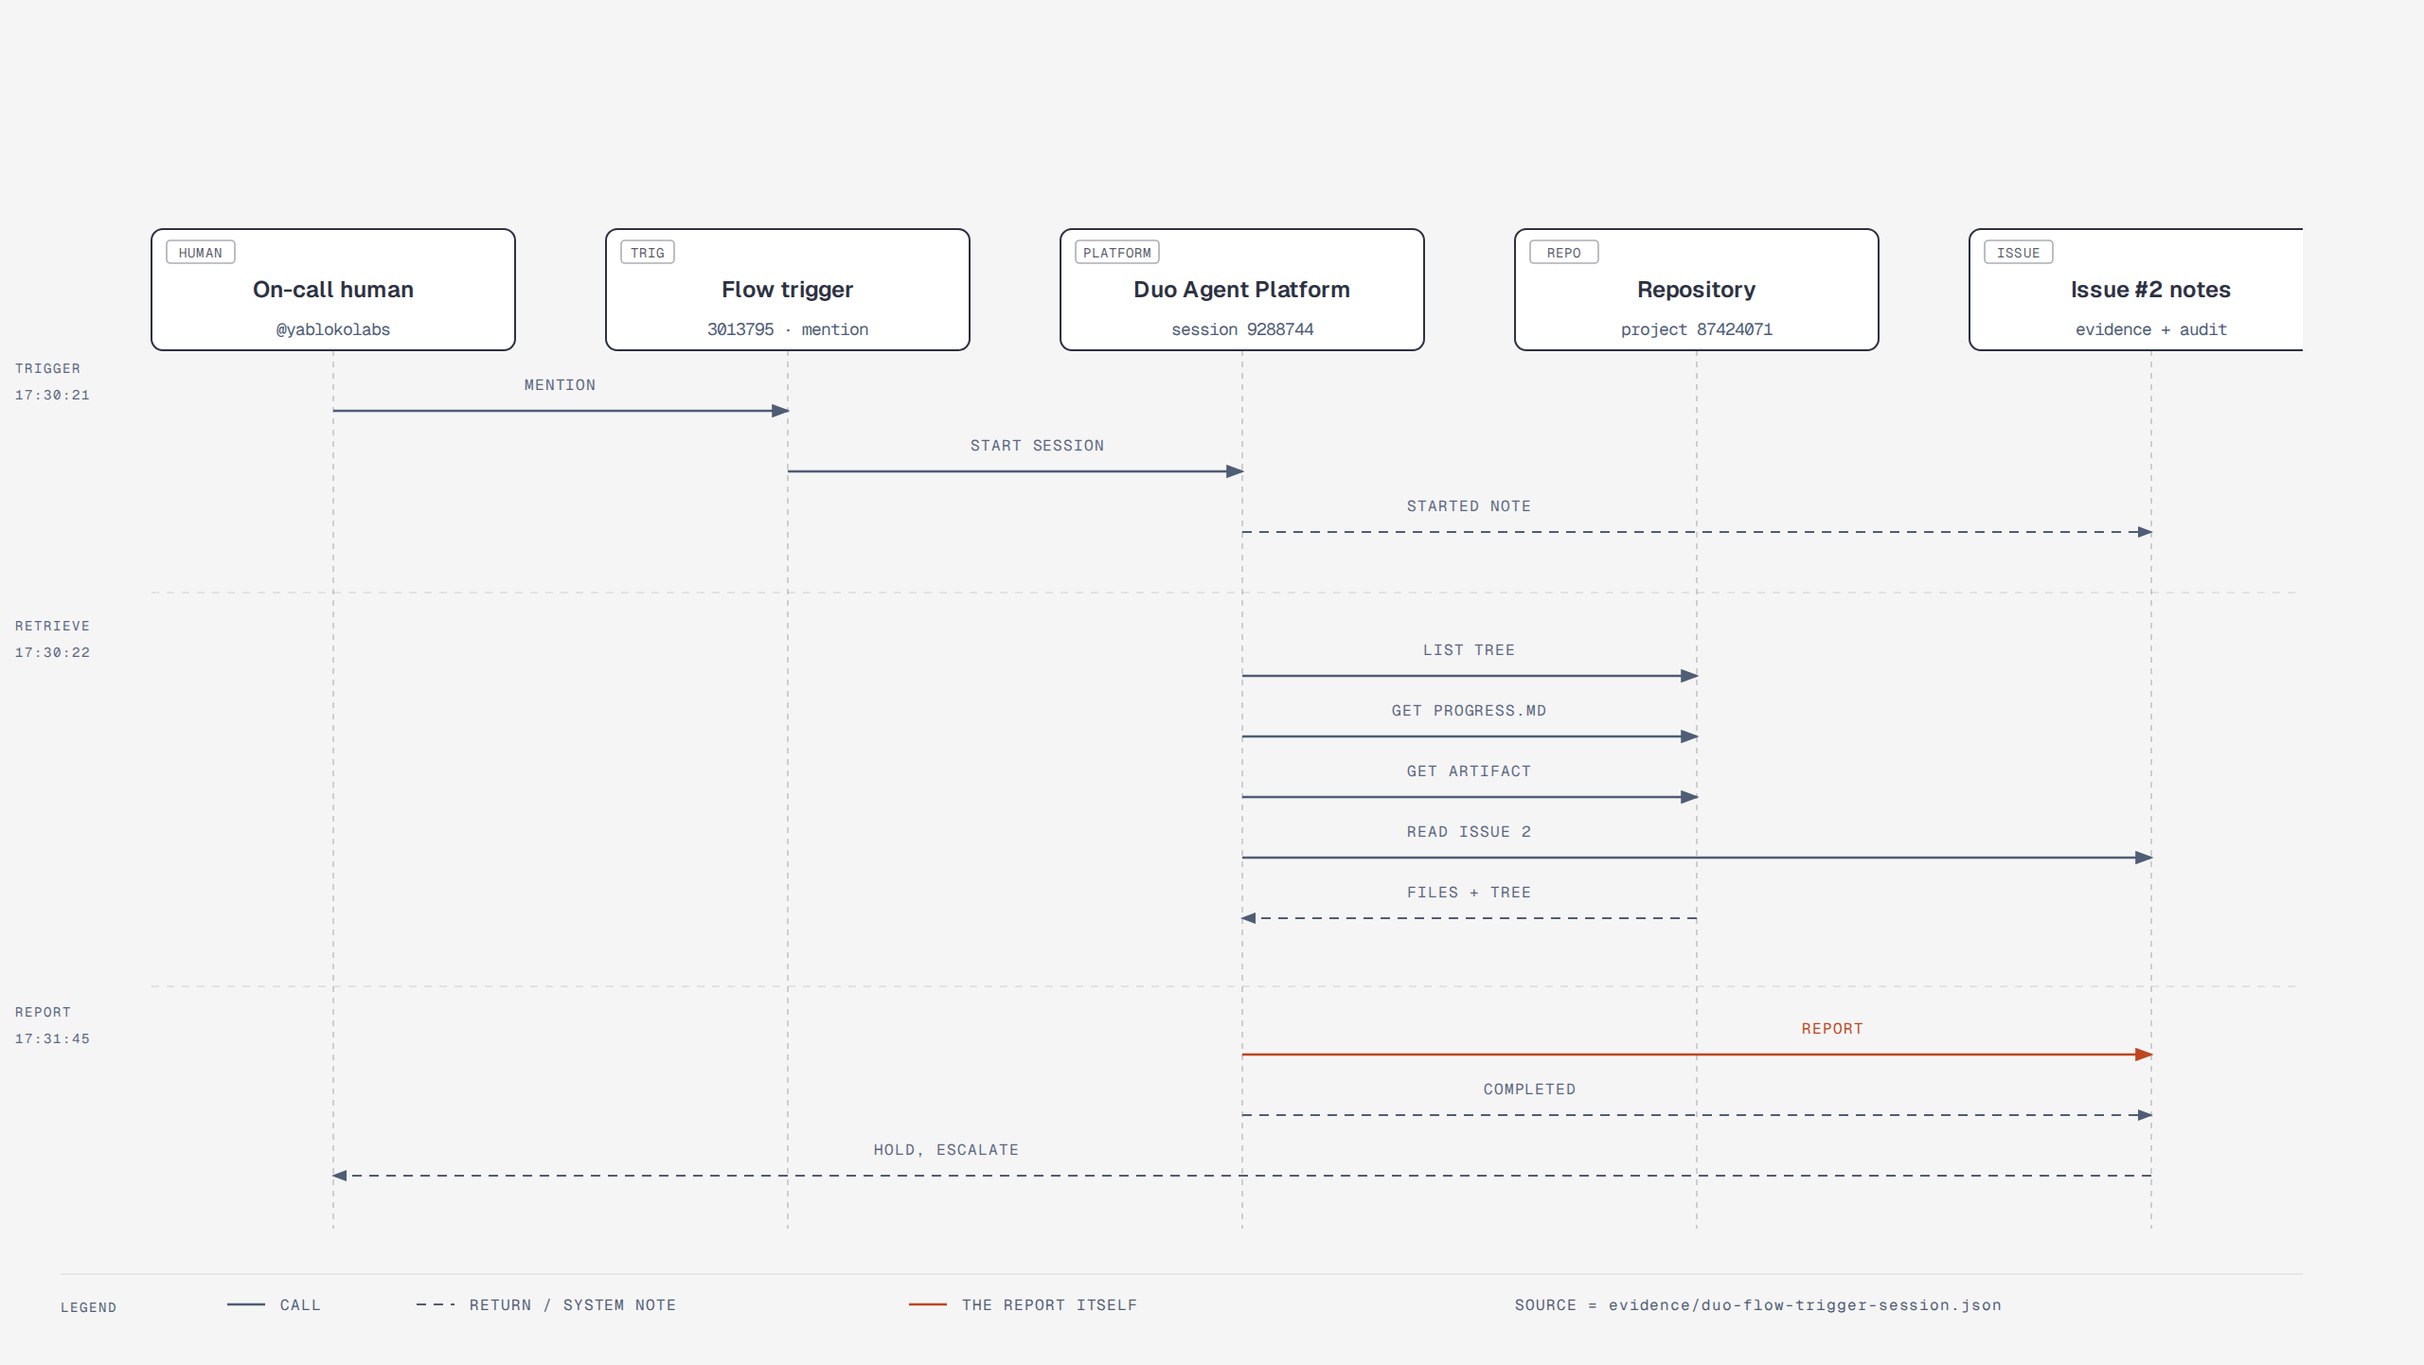
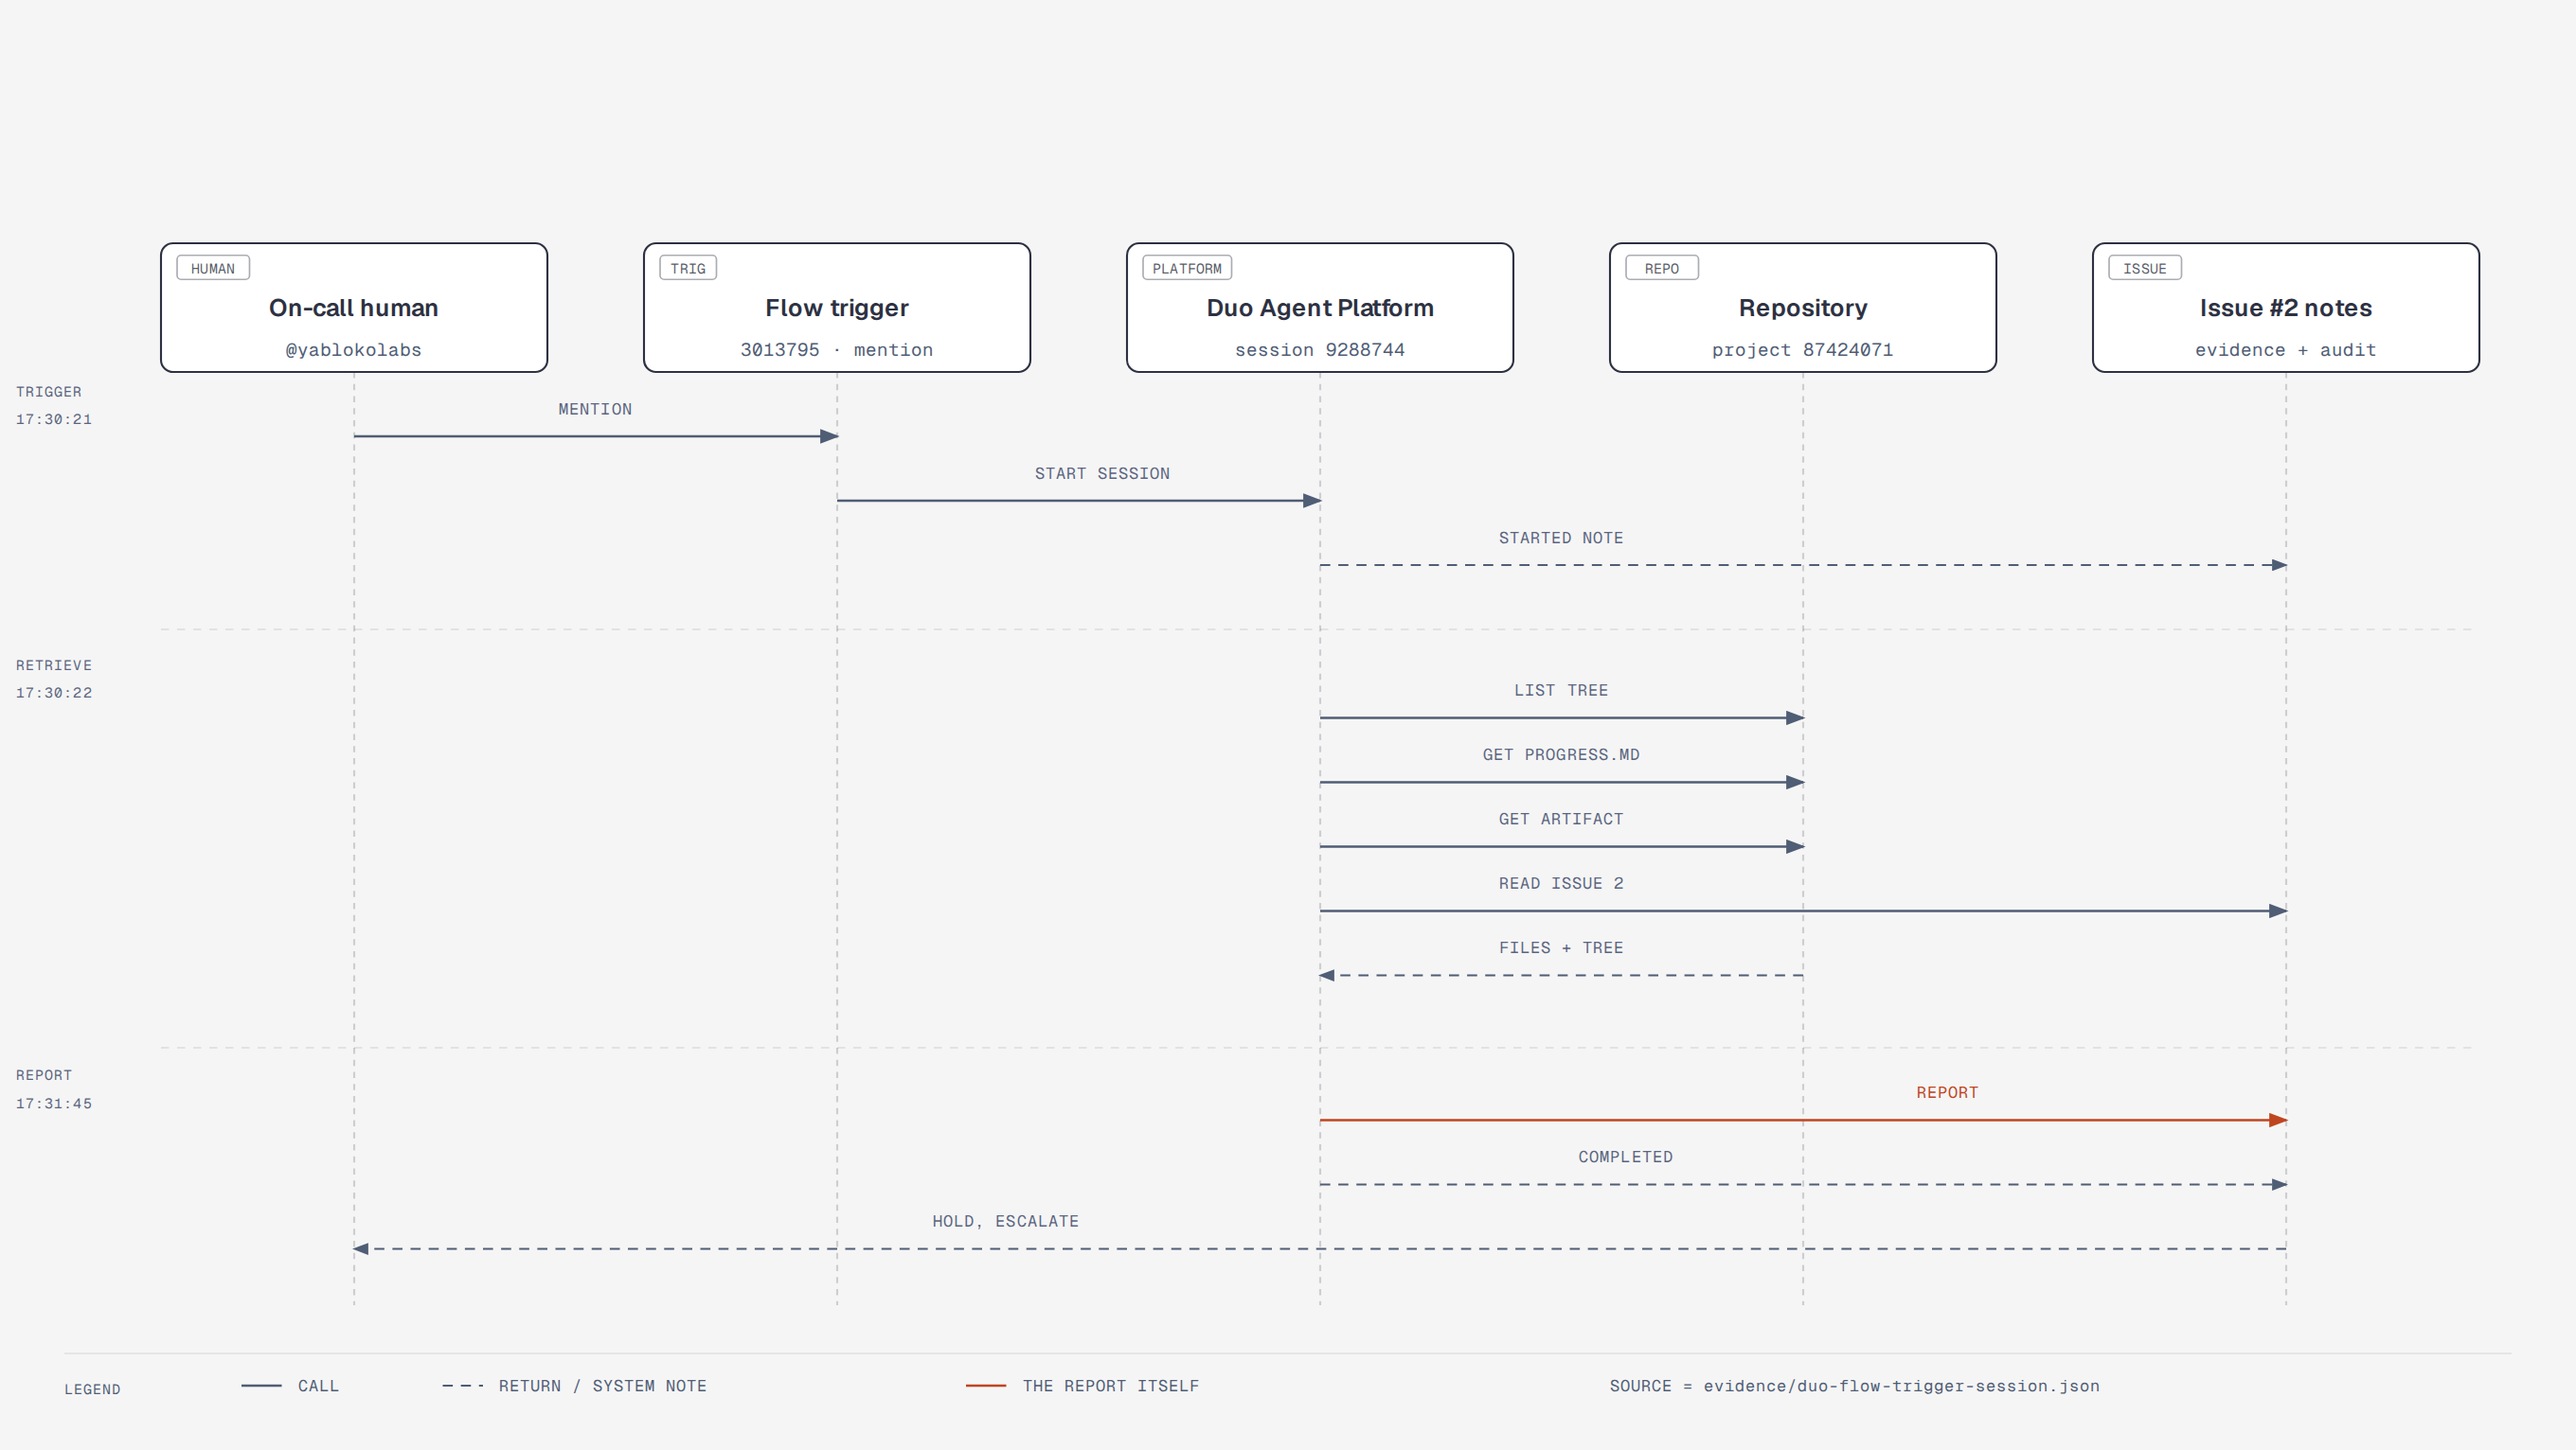
Render the diagrams in a viewport wide enough for the whole SVG
The default 1280px viewport left 1216px after the page padding, so the
scroll container cut the right 64px off every diagram.

diff --git a/scripts/render_diagrams.py b/scripts/render_diagrams.py
@@ -64,7 +64,11 @@ def main(argv: list[str]) -> int:
 
     with sync_playwright() as playwright:
         browser = playwright.chromium.launch(headless=True)
-        page = browser.new_page(device_scale_factor=args.scale)
+        # Wider than the SVG's 1280px minimum plus the page padding. In a narrower
+        # viewport the scroll container cuts off the right edge of the diagram.
+        page = browser.new_page(
+            viewport={"width": 1440, "height": 900}, device_scale_factor=args.scale
+        )
         problems: list[str] = []
         page.on("pageerror", lambda exc: problems.append(f"pageerror: {exc}"))
         page.on(
